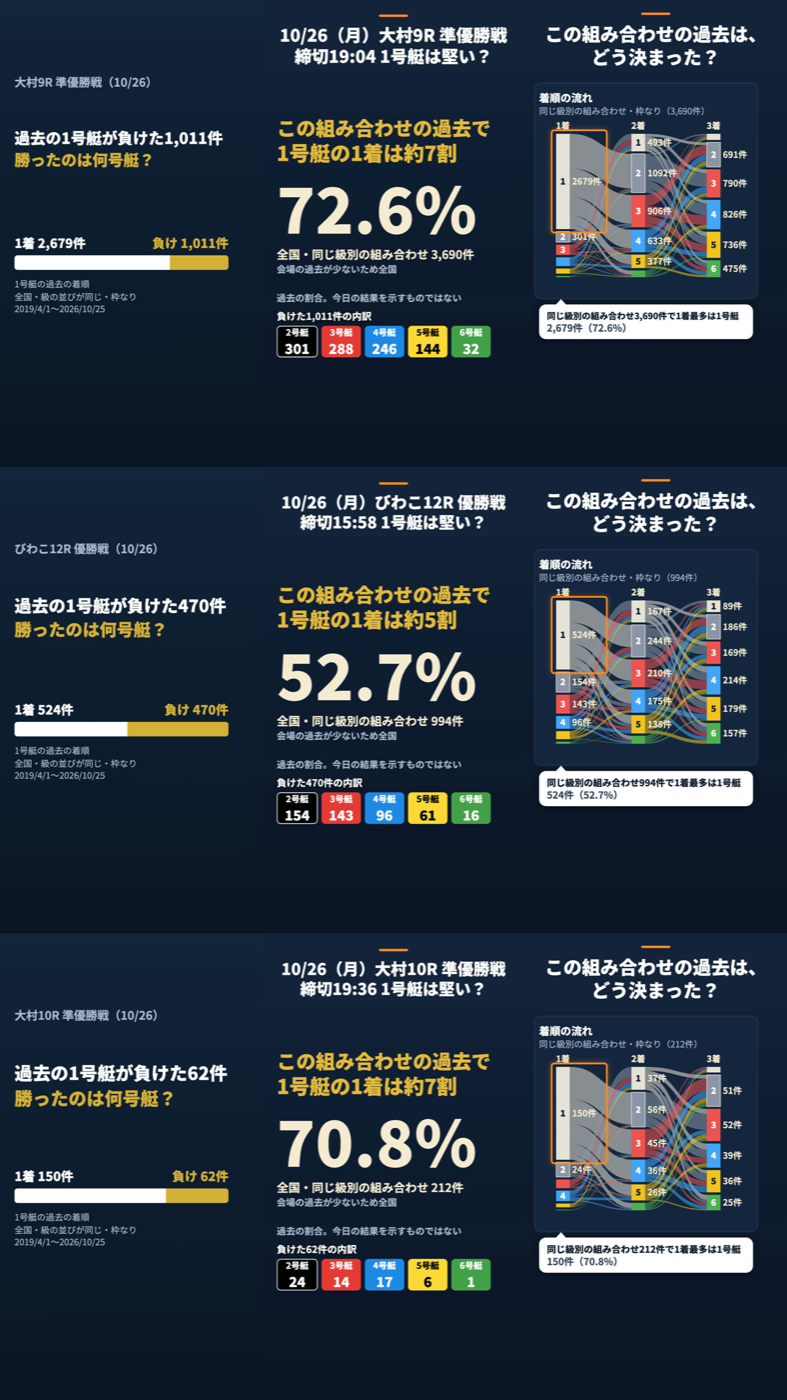
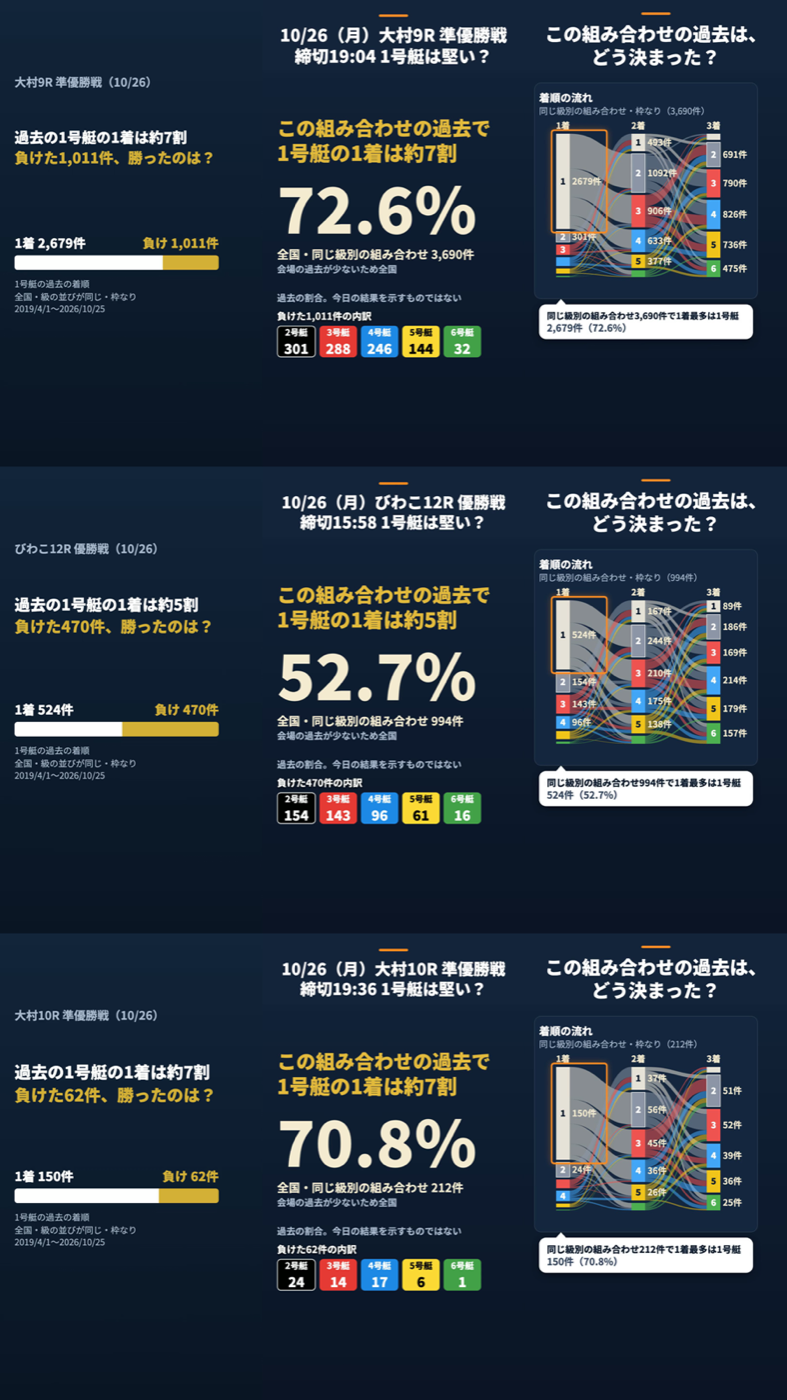
feat(full-picture): s02 の台本2周目（札を結論から、線を通った日だけ1着の多い艇を強調）
伏せた比較の1周目で3レースとも「劣る」（冒頭が結論でない）。関門の段2に戻した。

diff --git a/sns-video-studio/remotion/src/fullPicture/S02.jsx b/sns-video-studio/remotion/src/fullPicture/S02.jsx
@@ -12,7 +12,8 @@ import { BOAT_COLORS } from "../../../../src/utils/colors.js";
 
 const GOLD = "#d4af37";
 const LEFT = 60;
-const RIGHT = 940;
+// 右端は Shorts の右の操作ボタンの列から離す（x900。youtube-channel 試作の審査 2周目 P2）
+const RIGHT = 900;
 
 export function S02Card({ head, lines, band, scope }) {
   // 主の文字は2行とも同じ大きさで幅に収める（件数が4桁の日も。最大 84px）。収まらなければ止める（黙ってはみ出さない）
@@ -123,7 +124,8 @@ export function S02Overlay({ chips = null }) {
                   borderRadius: 16,
                   background: BOAT_COLORS[c.boat].bg,
                   color: BOAT_COLORS[c.boat].text,
-                  border: c.boat === 2 ? "3px solid #fff" : "none",
+                  // 線を通った日だけ1着の多い艇を金の枠で強調（2号艇は黒地なので白い縁で見分ける）
+                  border: c.boat === chips.top ? `6px solid ${GOLD}` : c.boat === 2 ? "3px solid #fff" : "none",
                   display: "flex",
                   flexDirection: "column",
                   alignItems: "center",

diff --git a/scripts/maintenance/verify-full-picture-scene2.js b/scripts/maintenance/verify-full-picture-scene2.js
@@ -1955,7 +1955,8 @@ for (const f of fixtures) {
   assert.deepEqual([f.n, f.k, f.m, f.p], [212, 150, 62, 70.8]);
   assert.deepEqual(f.by.map((x) => x.count), [24, 14, 17, 6, 1], "艇番の順（順位で並べない）");
   const tx = s02Text(f, { race: "大村10R 準優勝戦", date: "10/26", deadline: "19:36", url: "https://www.boat-ai.jp/race/2026-10-26-24-10" });
-  assert.deepEqual(tx.card.lines, ["過去の1号艇が負けた62件", "勝ったのは何号艇？"]);
+  assert.deepEqual(tx.card.lines, ["過去の1号艇の1着は約7割", "負けた62件、勝ったのは？"], "冒頭は結論から");
+  assert.equal(f.top, null, "24 対 17 は線を通らないので強調しない");
   assert.ok(tx.xText.includes("過去212件中（2019/4/1〜2026/10/25）、1号艇の1着は150件（70.8%）"), tx.xText);
   assert.ok(tx.xText.includes("その62件で、勝ったのは何号艇？"));
   assert.deepEqual(s02Check(f, tx, 39.5), []);

diff --git a/docs/design/full-picture-type-gate/candidates/s02-loss-breakdown-card/script.md b/docs/design/full-picture-type-gate/candidates/s02-loss-breakdown-card/script.md
@@ -96,3 +96,13 @@
 | x-channel | P0 0・P1 0・P2 5 | 札に範囲と期間が無い（本文だけ）→ 札の下に「全国・級の並びが同じ・枠なり」「2019/4/1〜2026/10/25」の2行／問いが2つ並ぶ → 上と同じ／着順の流れの場面の今の吹き出し「1着最多は1号艇」→ 既存の字幕は #1973 の順位の線（z）で判定する。この型の検査は新しく足す文が対象／札の視覚の強さ → 文字を大きく（最大 84px、幅に合わせて縮める）／本文2行目が長い → 次の版の1差として試す |
 
 この版での変更: 札 1.5秒→3秒、答えの頁への問いの重ねをやめた、件数の札は答えの頁の注記の下（y1270〜1460）だけで、着順の流れの場面には重ねない（今の吹き出しと重なるため）。
+
+審査2周目（2026-10-27）:
+- youtube-channel（新しいエージェント）: P0 0・P1 0。前の周の P1 は直っていた。P2: 答えの頁の大きい数字（72.6%）が札の問いと別の答えになる → 下の台本2周目で札を結論から始め、札と答えの頁の「約X割」をそろえた／件数の札の右端が操作ボタンに近い → 右端を x900 に／札の下の小さい3行 → 範囲の証跡として残す（正本は答えの頁）
+- 伏せた比較（新しいエージェント、2回とも順を入れ替え）: 3レースとも「劣る」（冒頭が結論でない＝問い型。今の型は3コマ目の当日の水面が冒頭の割合とつながらない、が逆側の弱点）。**関門の段2へ戻る（台本会議の2周目、上限）**
+
+## 台本2周目（2026-10-27、伏せた比較の指摘から）
+
+- 札の主の文字を結論から: 「過去の1号艇の1着は約X割」「負けたM件、勝ったのは？」（オーナー 10/11「冒頭は結論から」）。札は3.5秒（24字・毎秒約7字）
+- 件数の札で1着の多い艇を金の枠で強調するのは、2位との差が線（(c1−c2)/√(c1+c2)>=1.96）を通った日だけ。見出しも「（最多は◯号艇）」をその日だけ足す。10/26 の3レースはどれも通らない（301 対 288・154 対 143・24 対 17）
+- 試作: 41.4〜41.5秒
